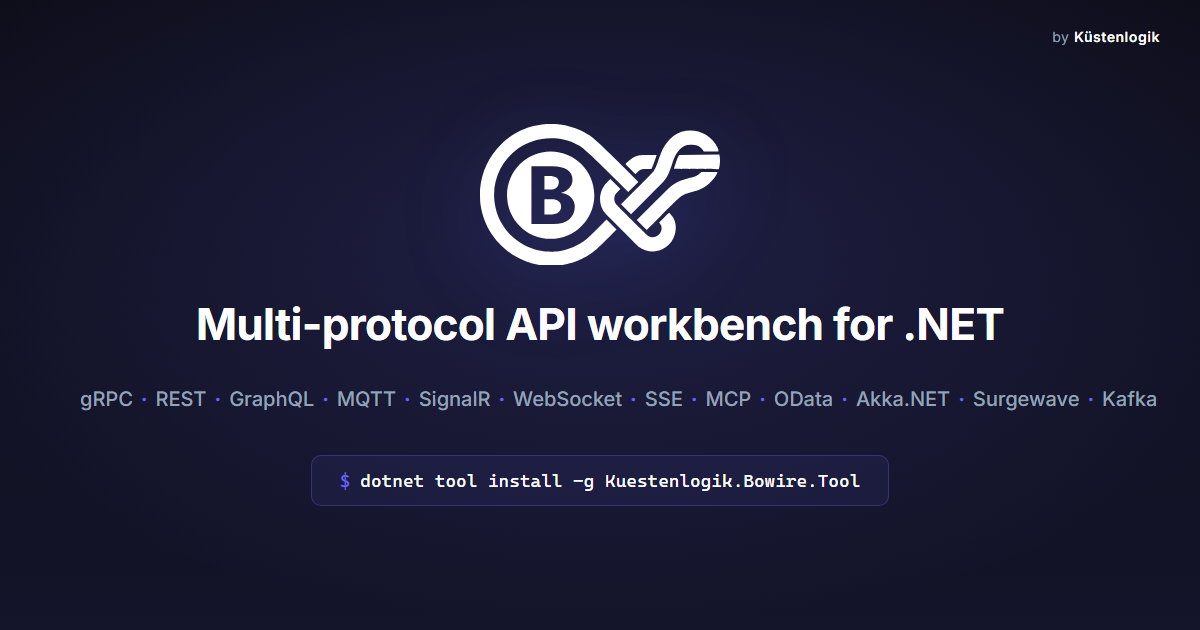
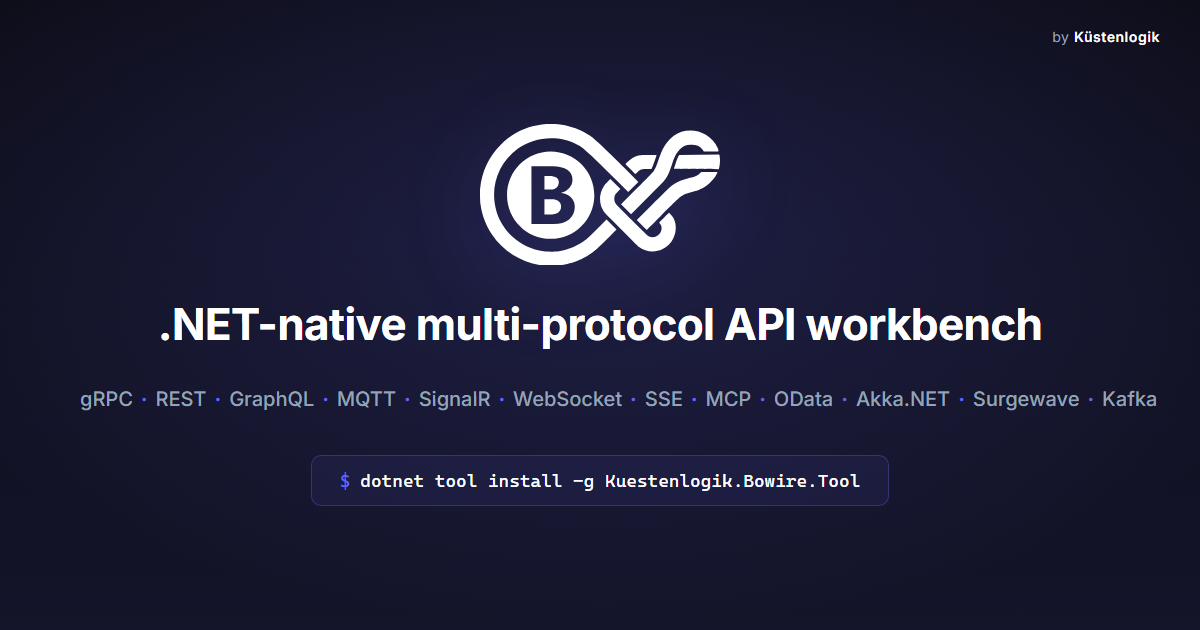
brand: rephrase tagline as ".NET-native multi-protocol API workbench"
Previous shape: "Multi-protocol API workbench for .NET"
Updated shape: "The .NET-native multi-protocol API workbench"

Tighter — leads with the platform-fit attribute instead of trailing
it as a "for .NET" suffix. Same meaning, fewer words on the eye.

Applied consistently across the surface so the brand reads identically
wherever a reader bounces between channels:

  Marketing site
    site/_includes/hero.html          hero slogan
    site/about.html                   <meta description>
    site/index.html                   <title>
    site/_config.yml                  Jekyll site.description
    site/_layouts/default.html        OG / Twitter image alt (×2)
    site/llms.txt + llms-full.txt     LLM discoverability headline

  Distribution packages
    README.md                         repo lead sentence
    packaging/chocolatey/bowire.nuspec
    packaging/winget/template/…locale.en-US.yaml

  In-product
    src/.../wwwroot/js/landing.js     embedded-landing subtitle
    src/.../wwwroot/js/settings.js    workbench About-dialog tagline

  Social card
    images/og-image.svg               source SVG
    scripts/og-image-template.html    rendering template
    site/assets/images/og-image.png   regenerated 1200×630 PNG

Discord / LinkedIn / Twitter cache OG images for ~24-48h, so existing
shared URLs stay on the old preview. Fresh URLs (e.g. with a ?v= query
suffix) will pull the new card.

Changed region(s): [[0.1233, 0.4825, 0.8942, 0.5429]]

diff --git a/site/_includes/hero.html b/site/_includes/hero.html
@@ -26,7 +26,7 @@
     </svg>
     <h1 class="hero-title">Bowire</h1>
     <p class="hero-tagline">All Your Protocols. One UI. One Setup.</p>
-    <p class="hero-slogan">The multi-protocol API workbench for .NET with support for gRPC, REST, GraphQL, SignalR, WebSocket, SSE, MQTT, Socket.IO, OData, MCP, Surgewave, Kafka, DIS, UDP, and your custom protocol &mdash; all in a single tool.<br>No cloud restriction. No account required. Free and open source.<br>Built for API testing with even more swag than Swagger.</p>
+    <p class="hero-slogan">The .NET-native multi-protocol API workbench with support for gRPC, REST, GraphQL, SignalR, WebSocket, SSE, MQTT, Socket.IO, OData, MCP, Surgewave, Kafka, DIS, UDP, and your custom protocol &mdash; all in a single tool.<br>No cloud restriction. No account required. Free and open source.<br>Built for API testing with even more swag than Swagger.</p>
     <div class="hero-actions">
       <a href="{{ '/docs/' | relative_url }}" class="btn btn-secondary">
         <svg width="18" height="18" viewBox="0 0 24 24" fill="currentColor" stroke="currentColor" stroke-width="2.25" stroke-linecap="round" stroke-linejoin="round" aria-hidden="true"><polygon points="12 2 19 21 12 17 5 21 12 2"/></svg>

diff --git a/site/_layouts/default.html b/site/_layouts/default.html
@@ -35,10 +35,10 @@
   <meta property="og:image" content="{{ '/assets/images/og-image.png' | absolute_url }}">
   <meta property="og:image:width" content="1200">
   <meta property="og:image:height" content="630">
-  <meta property="og:image:alt" content="Bowire — Multi-protocol API workbench for .NET. By Küstenlogik.">
+  <meta property="og:image:alt" content="Bowire — the .NET-native multi-protocol API workbench. By Küstenlogik.">
   <meta name="twitter:card" content="summary_large_image">
   <meta name="twitter:image" content="{{ '/assets/images/og-image.png' | absolute_url }}">
-  <meta name="twitter:image:alt" content="Bowire — Multi-protocol API workbench for .NET. By Küstenlogik.">
+  <meta name="twitter:image:alt" content="Bowire — the .NET-native multi-protocol API workbench. By Küstenlogik.">
 
   {%- comment -%}
   schema.org JSON-LD — gives Google / Bing / DuckDuckGo / AI crawlers a

diff --git a/src/Kuestenlogik.Bowire/wwwroot/js/landing.js b/src/Kuestenlogik.Bowire/wwwroot/js/landing.js
@@ -154,7 +154,7 @@
         }));
         hero.appendChild(el('div', { className: 'bowire-landing-hero-headline', textContent: 'Welcome to Bowire' }));
         hero.appendChild(el('div', { className: 'bowire-landing-hero-tagline',
-            textContent: 'Multi-protocol API workbench for .NET — discover, test, record, and replay any gRPC, REST, GraphQL, SignalR, MCP, SSE or WebSocket service.' }));
+            textContent: 'The .NET-native multi-protocol API workbench — discover, test, record, and replay any gRPC, REST, GraphQL, SignalR, MCP, SSE or WebSocket service.' }));
 
         var grid = el('div', { className: 'bowire-landing-cta-grid' });
         grid.appendChild(renderFirstRunCard(

diff --git a/src/Kuestenlogik.Bowire/wwwroot/js/settings.js b/src/Kuestenlogik.Bowire/wwwroot/js/settings.js
@@ -336,7 +336,7 @@
             el('div', { className: 'bowire-settings-about-brand-text' },
                 el('div', { className: 'bowire-settings-about-brand-name', textContent: 'Bowire' }),
                 el('div', { className: 'bowire-settings-about-brand-version', textContent: 'Version ' + (config.version || 'unknown') }),
-                el('div', { className: 'bowire-settings-about-brand-tagline', textContent: 'Multi-protocol API workbench for .NET' })
+                el('div', { className: 'bowire-settings-about-brand-tagline', textContent: 'The .NET-native multi-protocol API workbench' })
             )
         ));
 

diff --git a/scripts/og-image-template.html b/scripts/og-image-template.html
@@ -124,7 +124,7 @@
       </g>
     </svg>
 
-    <div class="tagline">Multi-protocol API workbench for .NET</div>
+    <div class="tagline">.NET-native multi-protocol API workbench</div>
 
     <div class="protocols">
       gRPC<span class="dot">·</span>REST<span class="dot">·</span>GraphQL<span class="dot">·</span>MQTT<span class="dot">·</span>SignalR<span class="dot">·</span>WebSocket<span class="dot">·</span>SSE<span class="dot">·</span>MCP<span class="dot">·</span>OData<span class="dot">·</span>Akka.NET<span class="dot">·</span>Surgewave<span class="dot">·</span>Kafka

diff --git a/site/index.html b/site/index.html
@@ -1,6 +1,6 @@
 ---
 layout: default
-title: Bowire — Multi-protocol API workbench for .NET
+title: Bowire — the .NET-native multi-protocol API workbench
 description: Bowire auto-discovers gRPC, REST, GraphQL, MQTT, SignalR, WebSocket, SSE, MCP, and OData services and gives you one browser UI to inspect, invoke, stream, mock, and replay them. Embeds in your ASP.NET app with two lines, or runs as a standalone CLI / container against any URL.
 schema_type: SoftwareApplication
 ---

diff --git a/site/about.html b/site/about.html
@@ -1,7 +1,7 @@
 ---
 layout: page
 title: About — Bowire
-description: About Bowire — the multi-protocol API workbench for .NET, built by Küstenlogik in Northern Germany.
+description: About Bowire — the .NET-native multi-protocol API workbench, built by Küstenlogik in Northern Germany.
 ---
 
 <section class="about-hero">

diff --git a/README.md b/README.md
@@ -5,7 +5,7 @@
 [![NuGet](https://img.shields.io/nuget/v/Kuestenlogik.Bowire)](https://www.nuget.org/packages/Kuestenlogik.Bowire)
 [![License](https://img.shields.io/github/license/Kuestenlogik/Bowire)](https://github.com/Kuestenlogik/Bowire/blob/main/LICENSE)
 
-**A multi-protocol API workbench for .NET — gRPC, REST, GraphQL, MQTT, SignalR, WebSocket, SSE, MCP, OData, Socket.IO, DIS, UDP — runs against any service URL with zero code changes.**
+**The .NET-native multi-protocol API workbench — gRPC, REST, GraphQL, MQTT, SignalR, WebSocket, SSE, MCP, OData, Socket.IO, DIS, UDP — runs against any service URL with zero code changes.**
 
 [Quickstart](https://bowire.io/quickstart.html) · [Features](https://bowire.io/features.html) · [Why Bowire](https://bowire.io/why-bowire.html) · [Docs](https://bowire.io/docs/) · [Downloads](https://bowire.io/downloads.html)
 
